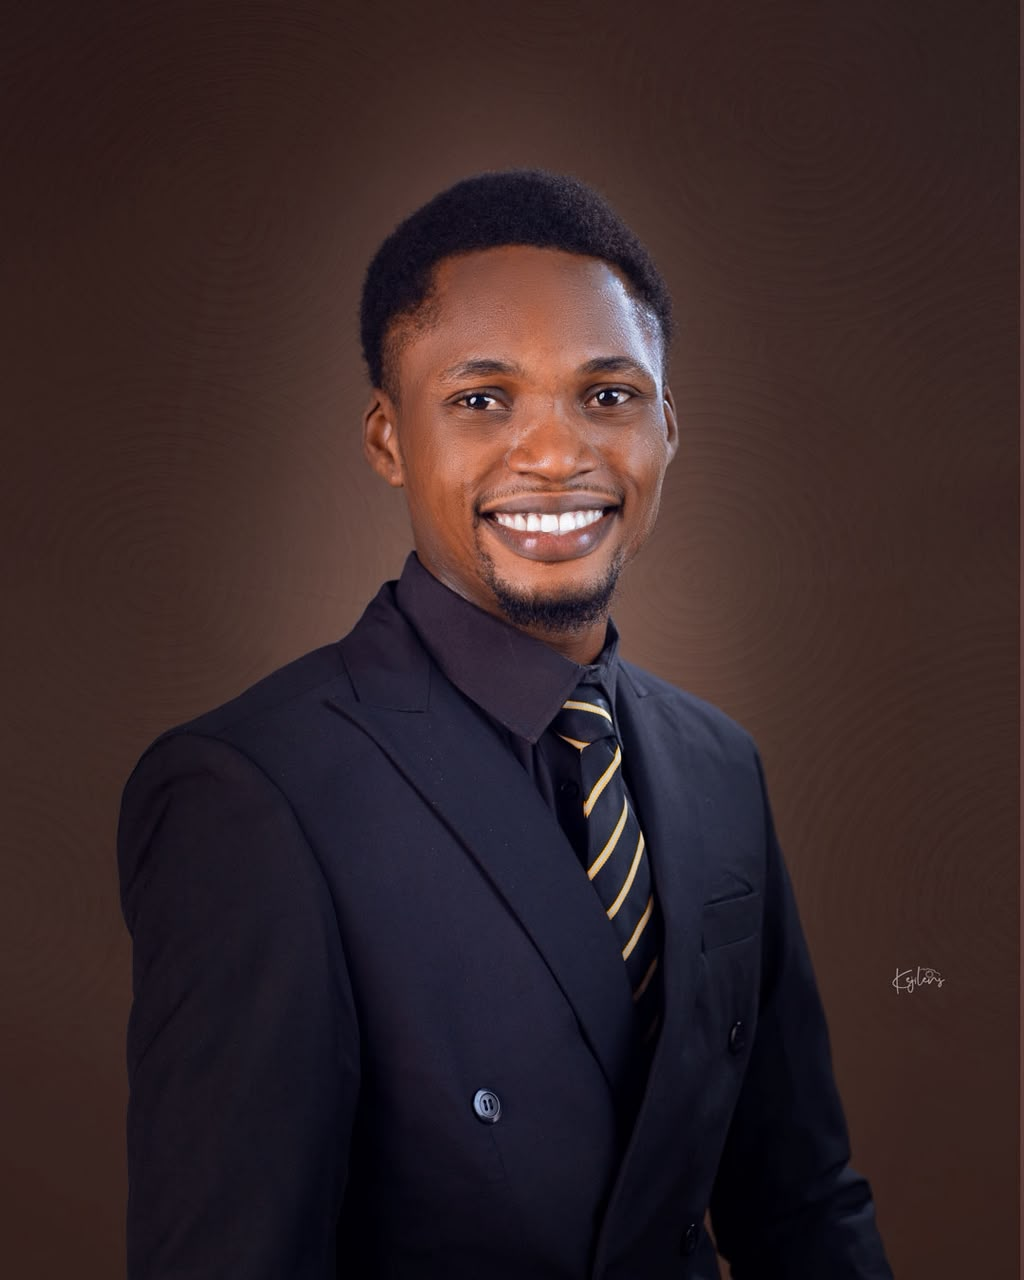
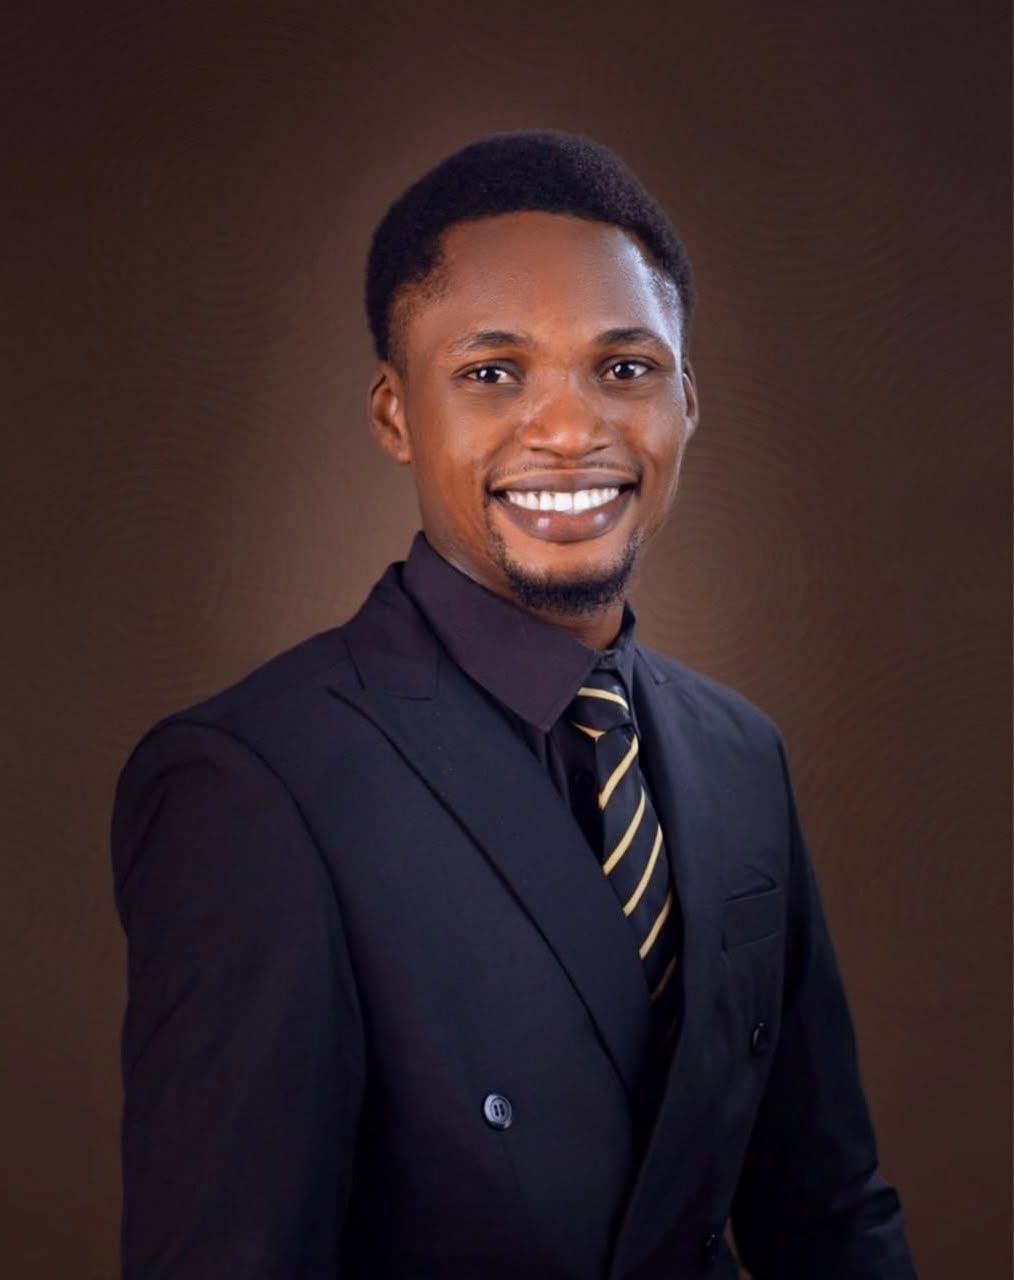
fixed coming soon

diff --git a/components/ComingSoon.tsx b/components/ComingSoon.tsx
@@ -130,7 +130,7 @@ export default function ComingSoon() {
               href="#"
               className="flex items-center"
             >
-      Chunk<span className="text-brand text-lg">N</span>chop 
+              Chunk<span className="text-brand text-lg">N</span>chop
             </a>
 
             <span className="rounded-full animate-pulse border border-[#575250] px-4 py-2 text-xs font-medium uppercase tracking-[0.18em] text-[#bcb5b1]">
@@ -228,10 +228,10 @@ export default function ComingSoon() {
                 {message && (
                   <div
                     className={`rounded-md px-3 py-2 text-sm leading-4 ${status === "error"
-                        ? "bg-red-50 text-red-700"
-                        : status === "already_joined"
-                          ? "bg-yellow-50 text-yellow-700"
-                          : "bg-green-50 text-green-700"
+                      ? "bg-red-50 text-red-700"
+                      : status === "already_joined"
+                        ? "bg-yellow-50 text-yellow-700"
+                        : "bg-green-50 text-green-700"
                       }`}
                   >
                     {message}
@@ -282,10 +282,10 @@ export default function ComingSoon() {
               E don happen to you?
             </p>
 
-            <h2 className="mt-3 max-w-162.5 font-impact text-[32px] font-black leading-[1.02]  sm:text-[42px]">
+            <h2 className="mt-3 max-w-162.5 font-impact text-[32px] font-black leading-normal  sm:text-[42px]">
               Buying meat shouldn’t cost you
               <br className="hidden sm:block" />
-              a whole Saturday.
+              <span className="text-brand">     a whole Saturday.</span>
             </h2>
           </div>
 
@@ -295,7 +295,7 @@ export default function ComingSoon() {
                 key={problem.title}
                 className="min-h-61.25 rounded-xl bg-white p-5"
               >
-                <div className="mb-4 text-5xl text-[#8c252b]">
+                <div className="mb-4 text-4xl text-[#8c252b]">
                   {problem.icon}
                 </div>
 
@@ -394,7 +394,7 @@ export default function ComingSoon() {
             />
 
             <Founder
-              image="/Makinde_Olaitan.PNG"
+              image="/Makinde_Olaitan.jpg"
               name="Makinde Olaitan"
               role="Co-founder · Animal Biotechnology & Software Engineering"
             />
